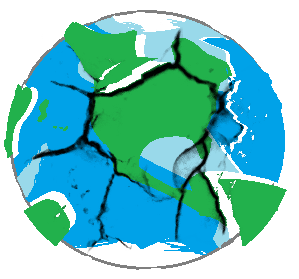
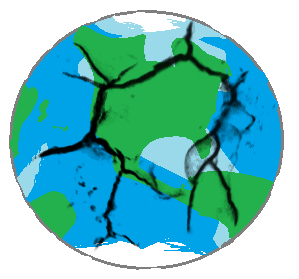
I cleaned up the end game animation a bit and fixed looping on the title menu. I still have the end game animation disabled within the actual game though, as we likely need to look at how to properly stop tracking game logic within ViewController when another view is active.

diff --git a/470Proj/EndGameView.m b/470Proj/EndGameView.m
@@ -22,16 +22,21 @@
 
 - (void)viewDidLoad {
     [super viewDidLoad];
-    //I'm definitely going to need to add more in-between frames to keep it from looking so cheesey... There
-    //are also a few frames that need to have the background white cleaned up
+    
+    UIImage *backgroundImage = [UIImage imageNamed:@"background"];
+    UIImageView *backgroundView = [[UIImageView alloc] initWithFrame: CGRectMake(0, 0, 400, 700)];
+    [backgroundView setImage:backgroundImage];
+    [self.view addSubview:backgroundView];
+    
     self.images = [NSArray arrayWithObjects:[UIImage imageNamed:@"earth_destr0"], [UIImage imageNamed:@"earth_destr0"],
-                   [UIImage imageNamed:@"earth_destr1"], [UIImage imageNamed:@"earth_destr2"], [UIImage imageNamed:@"earth_destr3"], [UIImage imageNamed:@"earth_destr4"], [UIImage imageNamed:@"earth_destr5"], [UIImage imageNamed:@"earth_destr6"], [UIImage imageNamed:@"earth_destr7"], [UIImage imageNamed:@"earth_destr8"], [UIImage imageNamed:@"earth_destr9"], [UIImage imageNamed:@"earth_destra"], nil];
+                   [UIImage imageNamed:@"earth_destr1"], [UIImage imageNamed:@"earth_destr2"], [UIImage imageNamed:@"earth_destr3"], [UIImage imageNamed:@"earth_destr4"], [UIImage imageNamed:@"earth_destr5"], [UIImage imageNamed:@"earth_destr6"], [UIImage imageNamed:@"earth_destr7"], [UIImage imageNamed:@"earth_destr8"], [UIImage imageNamed:@"earth_destr9"], [UIImage imageNamed:@"earth_destra"], [UIImage imageNamed:@"earth_destrb"], [UIImage imageNamed:@"earth_destrc"], [UIImage imageNamed:@"earth_destrd"], [UIImage imageNamed:@"earth_destre"], [UIImage imageNamed:@"earth_destrf"], [UIImage imageNamed:@"earth_destrg"], nil];
     
     UIImageView *animView = [[UIImageView alloc] initWithFrame: CGRectMake(0, 0, 400, 700)];
     animView.animationImages=self.images;
     animView.animationDuration=2;
     animView.animationRepeatCount=1;
     [animView startAnimating];
+    
     
     [self.view addSubview:animView];
     [self performSelector:@selector(animFinished) withObject:nil

diff --git a/470Proj/ViewController.m b/470Proj/ViewController.m
@@ -46,7 +46,7 @@
     [self moveBackground:v1 and:v2];
     
     
-    UIImage *earth = [UIImage imageNamed:@"earth"];
+    UIImage *earth = [UIImage imageNamed:@"myearth"];
     UIImageView *e = [[UIImageView alloc] initWithFrame:CGRectMake( -10, 400, 400, 400)];
     [e setImage:earth];
     [self.view addSubview:e];
@@ -65,7 +65,7 @@
 -(void) drawEnemies: (enemy *) e
 {
         int p = e.position;
-        UIImage *enemy1 = [UIImage imageNamed:@"asteroid1"];
+        UIImage *enemy1 = [UIImage imageNamed:@"enemyship"];
         UIImageView *en1 = [[UIImageView alloc] initWithFrame:CGRectMake( p, 0, 20, 20)];
         [en1 setImage:enemy1];
         [self.view addSubview:en1];
@@ -122,9 +122,10 @@
             NSLog(@"end game");
             [self.enemiesOnScreen removeObject:temp];
             [temp removeFromSuperview];
-            /* This will animate the end animation, but we need to see about resetting the game logic or "end game" repeats
+            /*This is how we can call the end game animation, but currently we need to look into stopping the game
+            as end game is continuously triggered even in another view (strong vs weak?)
             EndGameView *endView = [[EndGameView alloc] init];
-            [self.navigationController pushViewController:endView animated:YES]; */
+            [self.navigationController pushViewController:endView animated:YES];*/
             return true;
             
         }

diff --git a/470Proj/TitleView.m b/470Proj/TitleView.m
@@ -65,10 +65,8 @@
     [self.endButton addTarget:self action:@selector(pressedEnd) forControlEvents:UIControlEventTouchUpInside];
     [self.view addSubview:self.endButton];
     
-    
 }
 
-//I need to actually loop this properly... It doesn't appear to keep looping as it does in ViewController
 -(void) moveBackground: (UIImageView *) v1 and: (UIImageView *) v2
 {
     
@@ -77,8 +75,8 @@
     else if (v2.frame.origin.y == 0)
         v1.frame = CGRectMake( 0 , -700 , v1.frame.size.width, v1.frame.size.height);
     
-    CGPoint labelPosition1 = CGPointMake(v1.frame.origin.x, v1.frame.origin.y + 3);
-    CGPoint labelPosition2 = CGPointMake(v2.frame.origin.x, v2.frame.origin.y + 3);
+    CGPoint labelPosition1 = CGPointMake(v1.frame.origin.x, v1.frame.origin.y + 3.5);
+    CGPoint labelPosition2 = CGPointMake(v2.frame.origin.x, v2.frame.origin.y + 3.5);
     [UIView animateWithDuration: 0.1 animations:^{
         v1.frame = CGRectMake( labelPosition1.x , labelPosition1.y , v1.frame.size.width, v1.frame.size.height);
         
